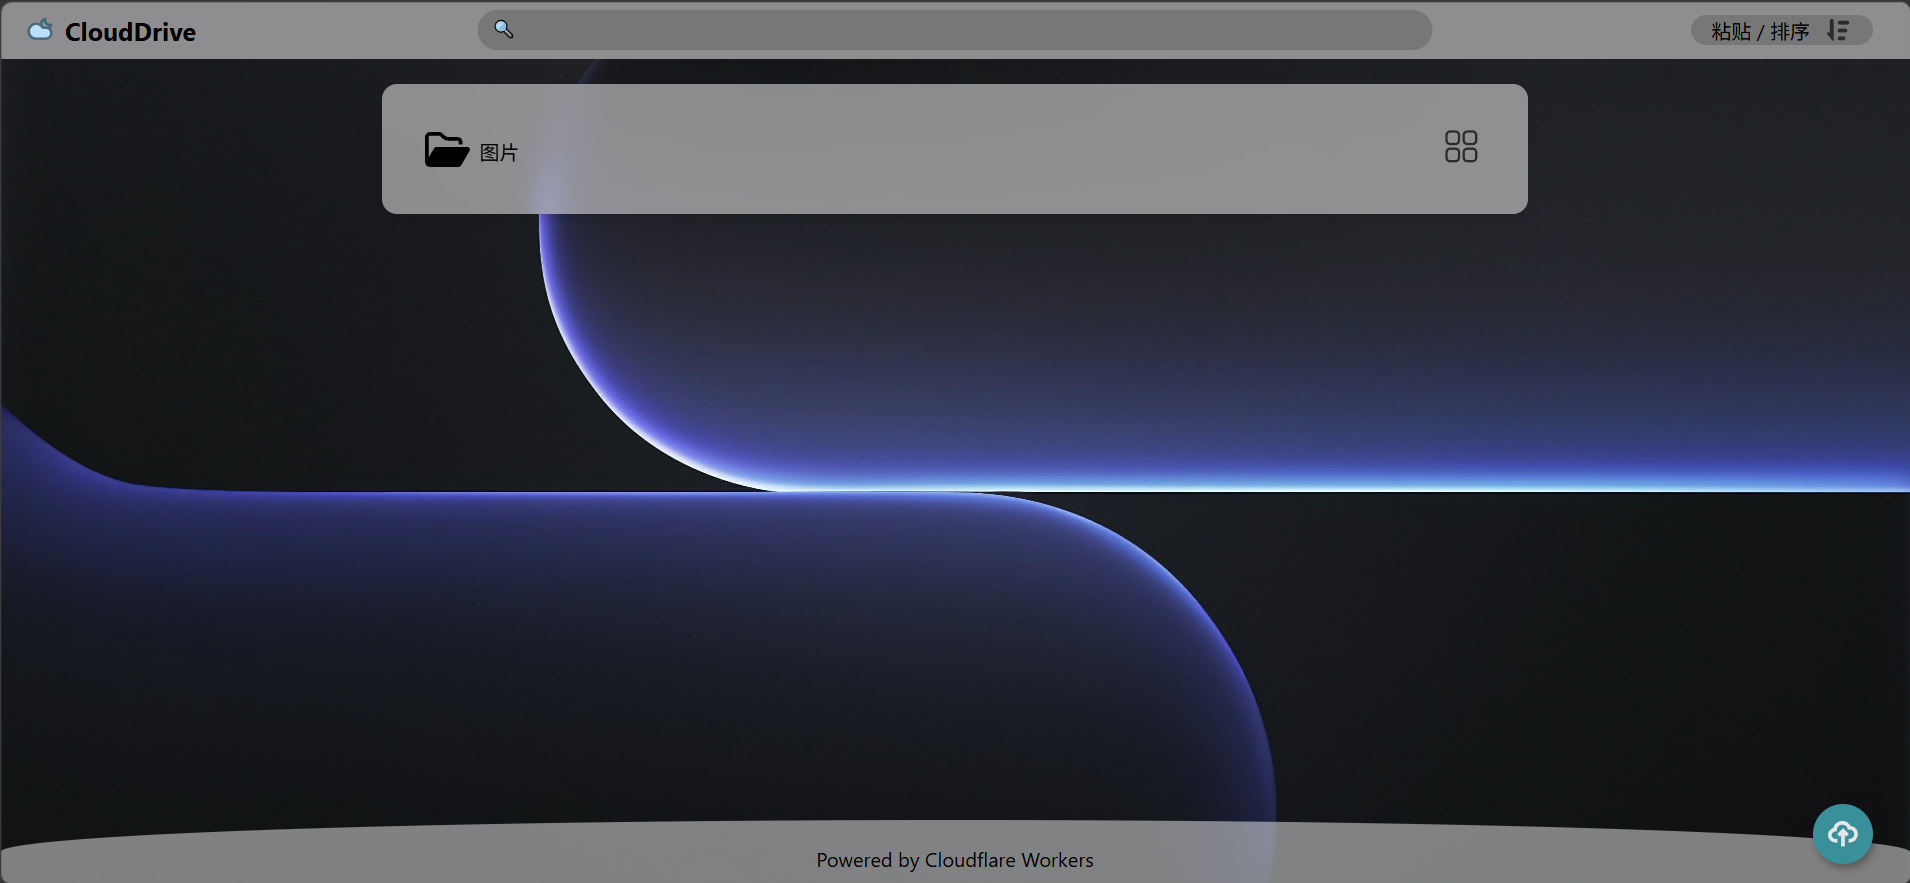
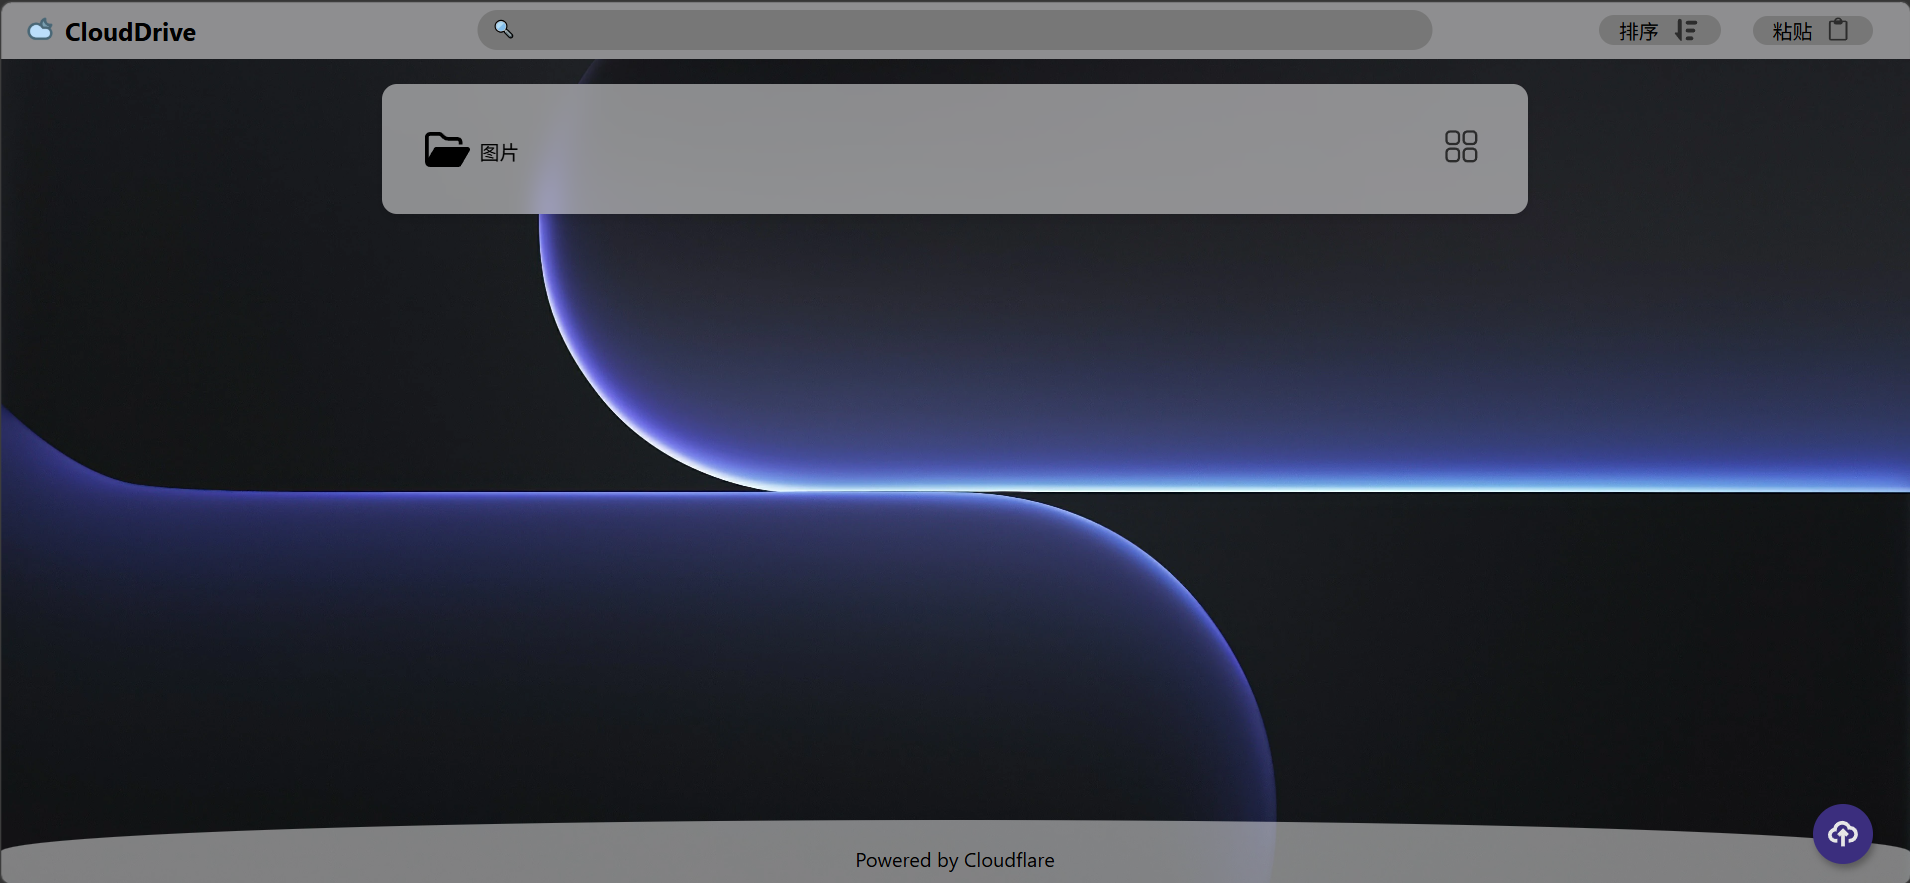
更新 Readme

Changed region(s): [[0.834, 0.0, 0.9576, 0.0612], [0.4325, 0.9479, 0.556, 1.0], [0.9267, 0.9173, 0.9885, 0.9785]]

diff --git a/assets/App.vue b/assets/App.vue
@@ -668,7 +668,7 @@ export default {
   position: absolute;
   left: 50%;
   transform: translateX(-50%);
-  width: 50vw;
+  width: 47vw;
 }
 
 @media (max-width: 768px) {